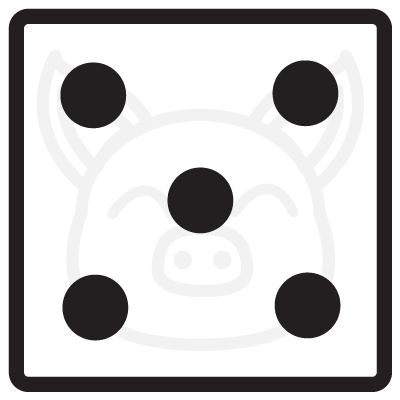
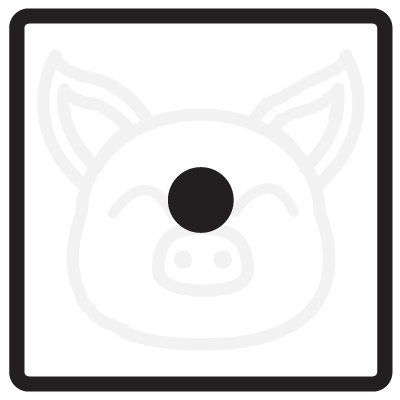
add functionality to hide and show buttons when 1 is rolled and when stay is pushed. The GAME WORKSgit add .

diff --git a/js/scripts.js b/js/scripts.js
@@ -1,20 +1,5 @@
 // Business logic
 
-
-//Prototype to set value of whichPlayer in Turn Object
-// Turn.prototype.setPlayer = function(button) {
-//
-//   // if the button that is pushed is player 1 button the player is player 1
-//   // else if the button that is pushed is player 2 button the player is player 2
-//
-//   if (button == $("#player-one-roll") || button == $("#player-one-stay")) {
-//     this.whichPlayer = playerOne;
-//   } else if (button == $("#player-two-roll") || button == $("#player-two-stay")) {
-//     this.whichPlayer = playerTwo;
-//   }
-// }
-
-
 //Player Object Constructor
 function Player(name) {
   this.name = name;
@@ -49,18 +34,14 @@ Player.prototype.addRollToArray = function (x) {
 
 // Get sum of Turn Running Total (and exclude 1s from total)
 Player.prototype.sumOfRolls = function() {
-  console.log(this.currentTurnArray);
   for (var i = 0; i < this.currentTurnArray.length; i++) {
     if (this.currentTurnArray[i = this.currentTurnArray.length - 1] === 1) {
       this.turnRunningScore = this.turnRunningScore;
     } else {
       this.turnRunningScore += this.currentTurnArray[i = this.currentTurnArray.length - 1];
-      console.log(this.turnRunningScore);
     }
   }
 }
-// console.log(playerOne.turnRunningScore);
-
 // Prototype to Bank points
 Player.prototype.bankPoints = function() {
   this.totalBankedScore += this.turnRunningScore;
@@ -71,14 +52,6 @@ Player.prototype.stayTurn = function () {
   this.bankPoints();
   this.turnRunningScore = 0;
 }
-
-// End game when player score reaches 100 <--Added this, but alert doesn't pop up when banked score reaches 100
-
-// Player.prototype.winGame = function () {
-//   if (this.totalBankedScore >= 14) {
-//     alert("We have a winner!");
-//   }
-// }
 
 // Create six-sided dice
 var sixSidedDice = new Dice();
@@ -95,27 +68,29 @@ Player.prototype.resetRunningTotalOnOne = function() {
   }
 }
 
-// Front end logic
+// FRONT END LOGIC
 
 $(function() {
 
   var playerOneTurn = true;
 
 
+
+
 // $button set one
 
 // $button set playerTwo
-  if (!playerOneTurn) {
-     $("#player-two-buttons").show();
-     $("#player-one-buttons").hide();
-  } else {
+  // if (!playerOneTurn) {
+  //    $("#player-two-buttons").show();
+  //    $("#player-one-buttons").hide();
+  // } else {
     //  wait for your turn
     // $("#player-one-buttons").hide();
-    alert("else is working");
-  }
+  // }
 
-  //Roll Button Click Event
+  //PLAYER ONE
 
+  //Player One Roll Button Click Event
   $("#player-one-roll").click(function(event) {
     event.preventDefault();
     var sixSidedDiceRoll = sixSidedDice.roll();
@@ -132,6 +107,13 @@ $(function() {
     if (sixSidedDiceRoll === 1) {
       $("#test").attr("src", "img/one.png");
       var playerOneTurn = false;
+      if (!playerOneTurn) {
+         $("#player-two-buttons").show();
+         $("#player-one-buttons").hide();
+      } else {
+        $("#player-one-buttons").show();
+        $("#player-two-buttons").hide();
+      }
     } else if (sixSidedDiceRoll === 2) {
       $("#test").attr("src", "img/two.png");
     } else if (sixSidedDiceRoll === 3) {
@@ -153,7 +135,7 @@ $("#player-one-stay").click(function(event) {
   $("#player-one-running").html("<h1 class='running-total'>" + playerOne.turnRunningScore + "</h1>");
   $("#player-one-score").html("<h1 class='total-score'>" + playerOne.totalBankedScore + "</h1>");
 
-  if (playerOne.totalBankedScore >= 100) {
+  if (playerOne.totalBankedScore >= 20) {
     $("#winner").show();
     $("#winner").html("<h1 class='total-score'>" + "You win!!!" + "</h1>");
   } else {
@@ -161,17 +143,84 @@ $("#player-one-stay").click(function(event) {
   }
 
   var playerOneTurn = false;
-  
+
   // $button set playerTwo
     if (!playerOneTurn) {
        $("#player-two-buttons").show();
        $("#player-one-buttons").hide();
     } else {
-      //  wait for your turn
-      // $("#player-one-buttons").hide();
-      alert("else is working");
+
+      $("#player-two-buttons").hide();
+      $("#player-one-buttons").show();
     }
+  });
 
+  /// PLAYER TWO STUFF!!!!!!!!
 
+  //Roll Button Click Event
+
+  $("#player-two-roll").click(function(event) {
+    event.preventDefault();
+    var sixSidedDiceRoll = sixSidedDice.roll();
+    playerTwo.setLastRoll(sixSidedDiceRoll);
+    playerTwo.resetRunningTotalOnOne(sixSidedDiceRoll);
+    playerTwo.addRollToArray(sixSidedDiceRoll);
+    playerTwo.sumOfRolls();
+
+    $("#player-two-running").html("<h1 class='running-total'>" + playerTwo.turnRunningScore + "</h1>");
+
+    $("#winner").html("<h1 class='running-total'>" + playerTwo.totalBankedScore + "</h1>");
+
+    //Change image based on dice roll, AND swith player turn
+    if (sixSidedDiceRoll === 1) {
+      $("#test").attr("src", "img/one.png");
+      var playerOneTurn = true;
+      if (playerOneTurn) {
+         $("#player-one-buttons").show();
+         $("#player-two-buttons").hide();
+      } else {
+        $("#player-two-buttons").show();
+        $("#player-one-buttons").hide();
+      }
+    } else if (sixSidedDiceRoll === 2) {
+      $("#test").attr("src", "img/two.png");
+    } else if (sixSidedDiceRoll === 3) {
+      $("#test").attr("src", "img/three.png");
+    } else if (sixSidedDiceRoll === 4) {
+      $("#test").attr("src", "img/four.png");
+    } else if (sixSidedDiceRoll === 5) {
+      $("#test").attr("src", "img/five.png");
+    } else if (sixSidedDiceRoll === 6) {
+      $("#test").attr("src", "img/six.png");
+    }
+  });
+
+//Player Two Stay Button Click Event
+$("#player-two-stay").click(function(event) {
+  event.preventDefault();
+
+  // What happens when a user clicks the stay button
+  playerTwo.stayTurn();
+  $("#player-two-running").html("<h1 class='running-total'>" + playerTwo.turnRunningScore + "</h1>");
+  $("#player-two-score").html("<h1 class='total-score'>" + playerTwo.totalBankedScore + "</h1>");
+
+  // Win condition
+  if (playerTwo.totalBankedScore >= 20) {
+    $("#winner").show();
+    $("#winner").html("<h1 class='total-score'>" + "You win!!!" + "</h1>");
+  } else {
+    $("#winner").text("");
+  }
+
+  var playerOneTurn = true;
+
+  // Toggle between players
+    if (playerOneTurn) {
+       $("#player-one-buttons").show();
+       $("#player-two-buttons").hide();
+    } else {
+      $("#player-two-buttons").show();
+      $("#player-one-buttons").hide();
+    }
   });
 });

diff --git a/index.html b/index.html
@@ -44,13 +44,13 @@
           <hr>
           <div id="player-two-buttons">
             <button type="submit" class="btn" name="button" id="player-two-roll">Roll</button>
-            <button type="submit" class="btn" name="button" id="player-two-hold">Stay</button>
+            <button type="submit" class="btn" name="button" id="player-two-stay">Stay</button>
           </div>
           <h3>Turn Running Total</h3>
           <div id="player-two-running">
           </div>
           <h3>Total Score:</h3>
-          <h4><span class="player-two-score">Placeholder number</span></h4>
+          <h4><span id="player-two-score"></span></h4>
         </div><!--Col closes-->
       </div><!--Row closes-->
     </div><!--Container closes-->
